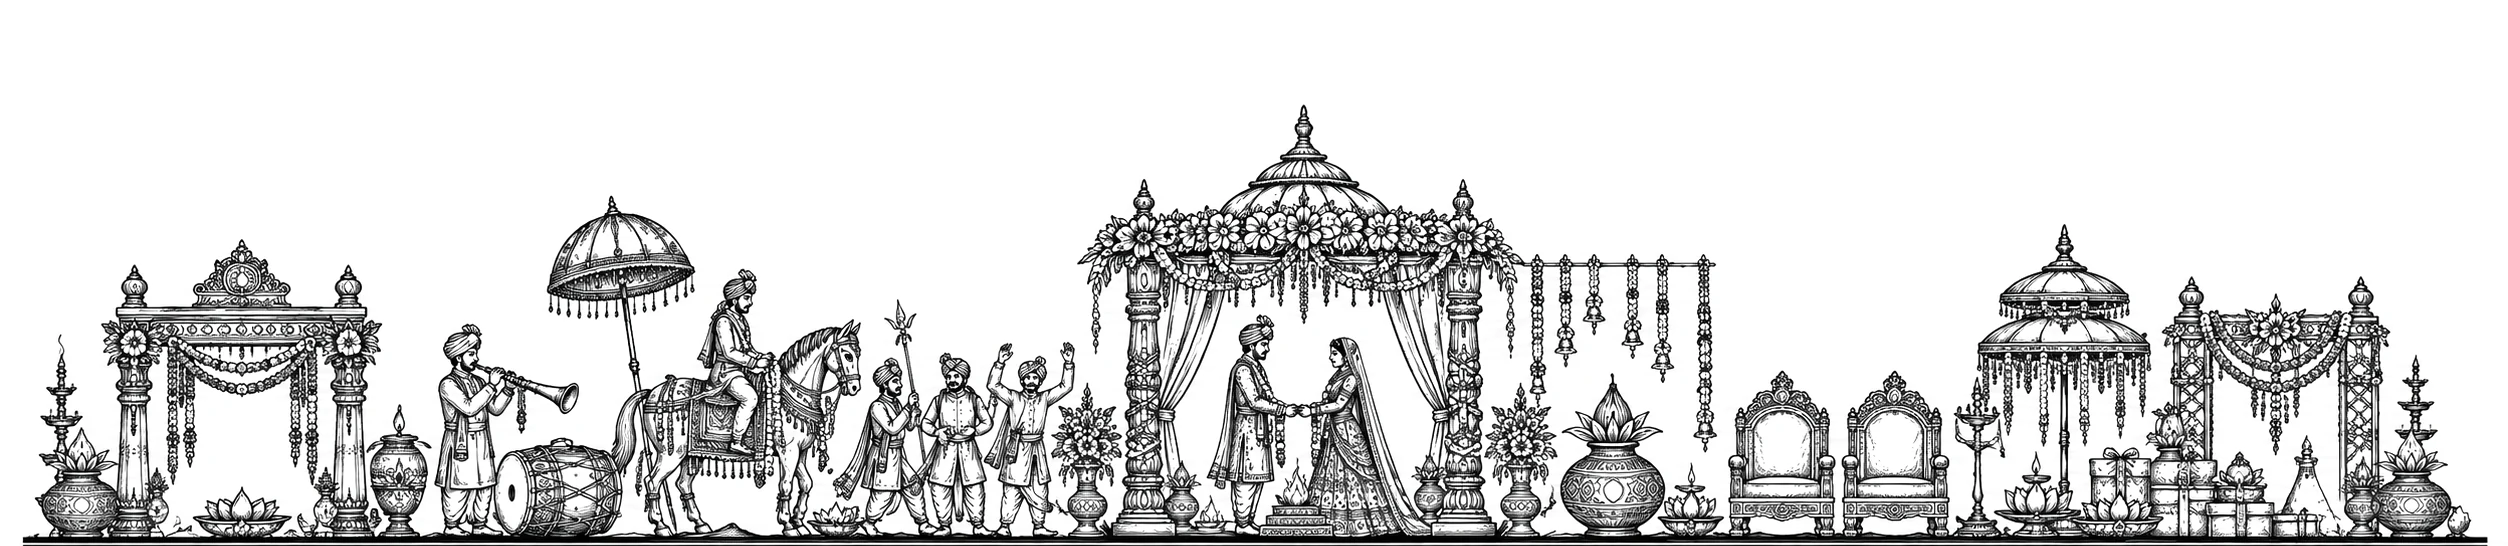
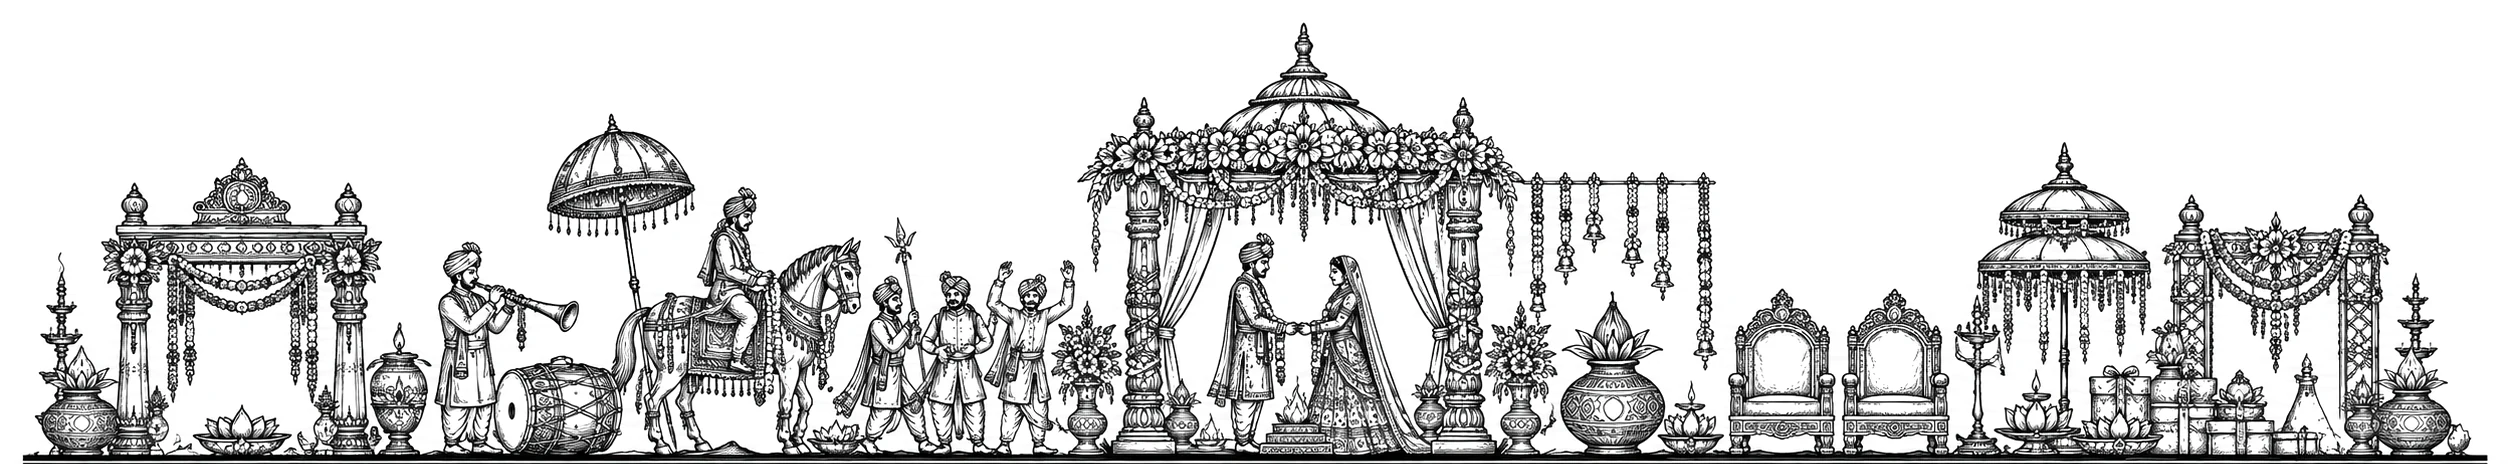
Close the gap between the last section and the footer frieze
Most of it was inside the artwork. The master carries 104px of empty paper
above the procession - 19% of its height - which at full width renders as about
80px of nothing and reads as a layout gap rather than as part of the drawing.
Cropped to 22px of air, so the frieze still has somewhere to breathe. 546 to
464px tall.

The rest was two paddings stacked into one: the footer's own top pad is down
from 40px to 16px on desktop, and the packages section's bottom from 64px to
32px, since the frieze underneath brings its own air.

183px to 64px at a 1900px viewport.

diff --git a/apps/web/components/site-footer.tsx b/apps/web/components/site-footer.tsx
@@ -34,7 +34,7 @@ export async function SiteFooter() {
     // of the page's warm surface (#fffcf9) between the last section and the frieze - two
     // whites with a cream band across the middle, which reads as a seam rather than as
     // space. Padding is inside the element, so it takes the background with it.
-    <footer className="bg-surface-raised pt-3 sm:pt-10">
+    <footer className="bg-surface-raised pt-2 sm:pt-4">
       {/*
         A line-art frieze across the top of the footer - baraat, band, mandap, the couple,
         read left to right. It lives inside <footer> rather than in any page, so every
@@ -60,6 +60,11 @@ export async function SiteFooter() {
         edge. So the export lifts the ground to #ffffff with a single linear scale, which
         leaves the black strokes where they are because 0 maps to 0.
 
+        It is also cropped. The master carries 104px of empty paper above the artwork, and
+        at full width that renders as about 80px of nothing between the last section and
+        the procession - which looked like a layout gap rather than part of the drawing.
+        Trimmed to 22px of air, so the frieze still has somewhere to breathe.
+
         `block` kills the inline-element baseline gap - as an inline image it would leave a
         few pixels of dark under the white frieze.
 
@@ -71,7 +76,7 @@ export async function SiteFooter() {
         alt=""
         aria-hidden="true"
         width={2508}
-        height={546}
+        height={464}
         loading="lazy"
         decoding="async"
         // On a phone the frieze is 2508px of artwork squeezed into 375, which lands it at

diff --git a/apps/web/app/(site)/(marketing)/page.tsx b/apps/web/app/(site)/(marketing)/page.tsx
@@ -276,9 +276,11 @@ export default async function HomePage() {
         <QuotationCta />
       </Container>
 
-      {/* 10. Wedding packages - Lucknow only, by area within the city */}
+      {/* 10. Wedding packages - Lucknow only, by area within the city.
+             pb is lighter than pt: the footer frieze sits directly under this section and
+             brings its own air, so a full py-16 underneath stacked two gaps into one. */}
       <section className="border-t border-ink-100 bg-surface-raised">
-        <Container className="py-16">
+        <Container className="pb-8 pt-16">
           <div className="flex items-end justify-between gap-6">
             <div>
               <p className="text-sm text-ink-600">Explore the packages</p>
